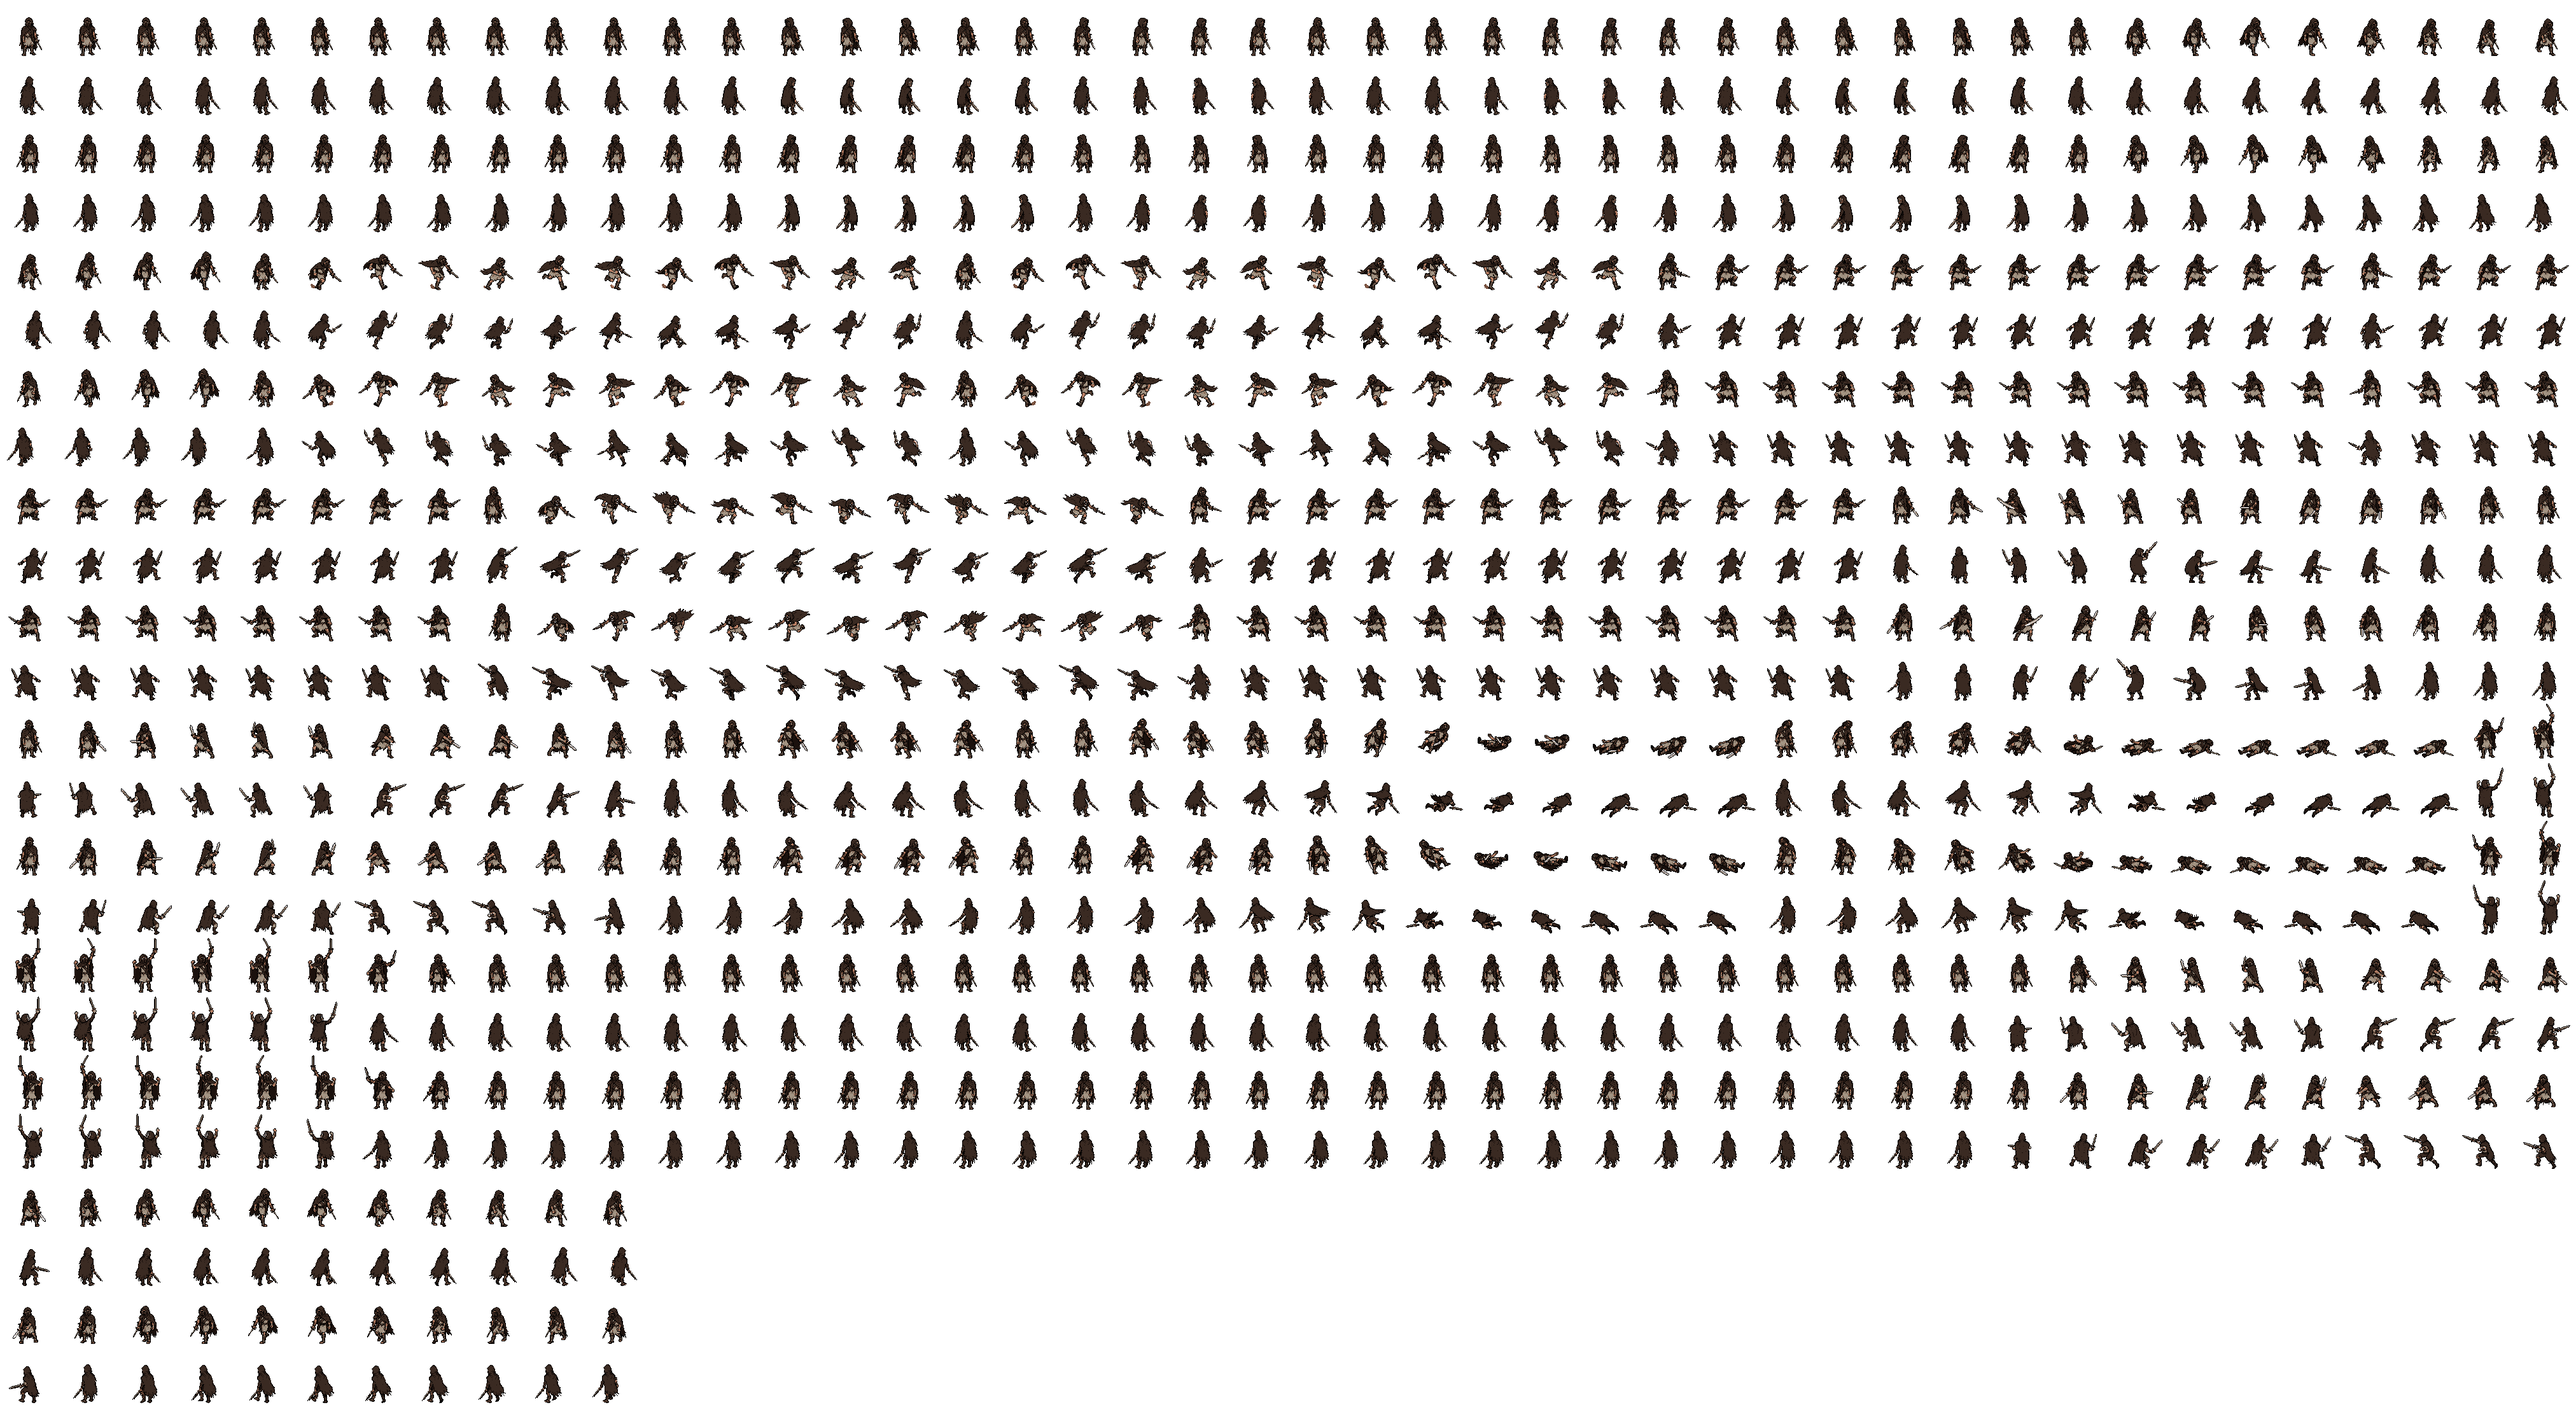
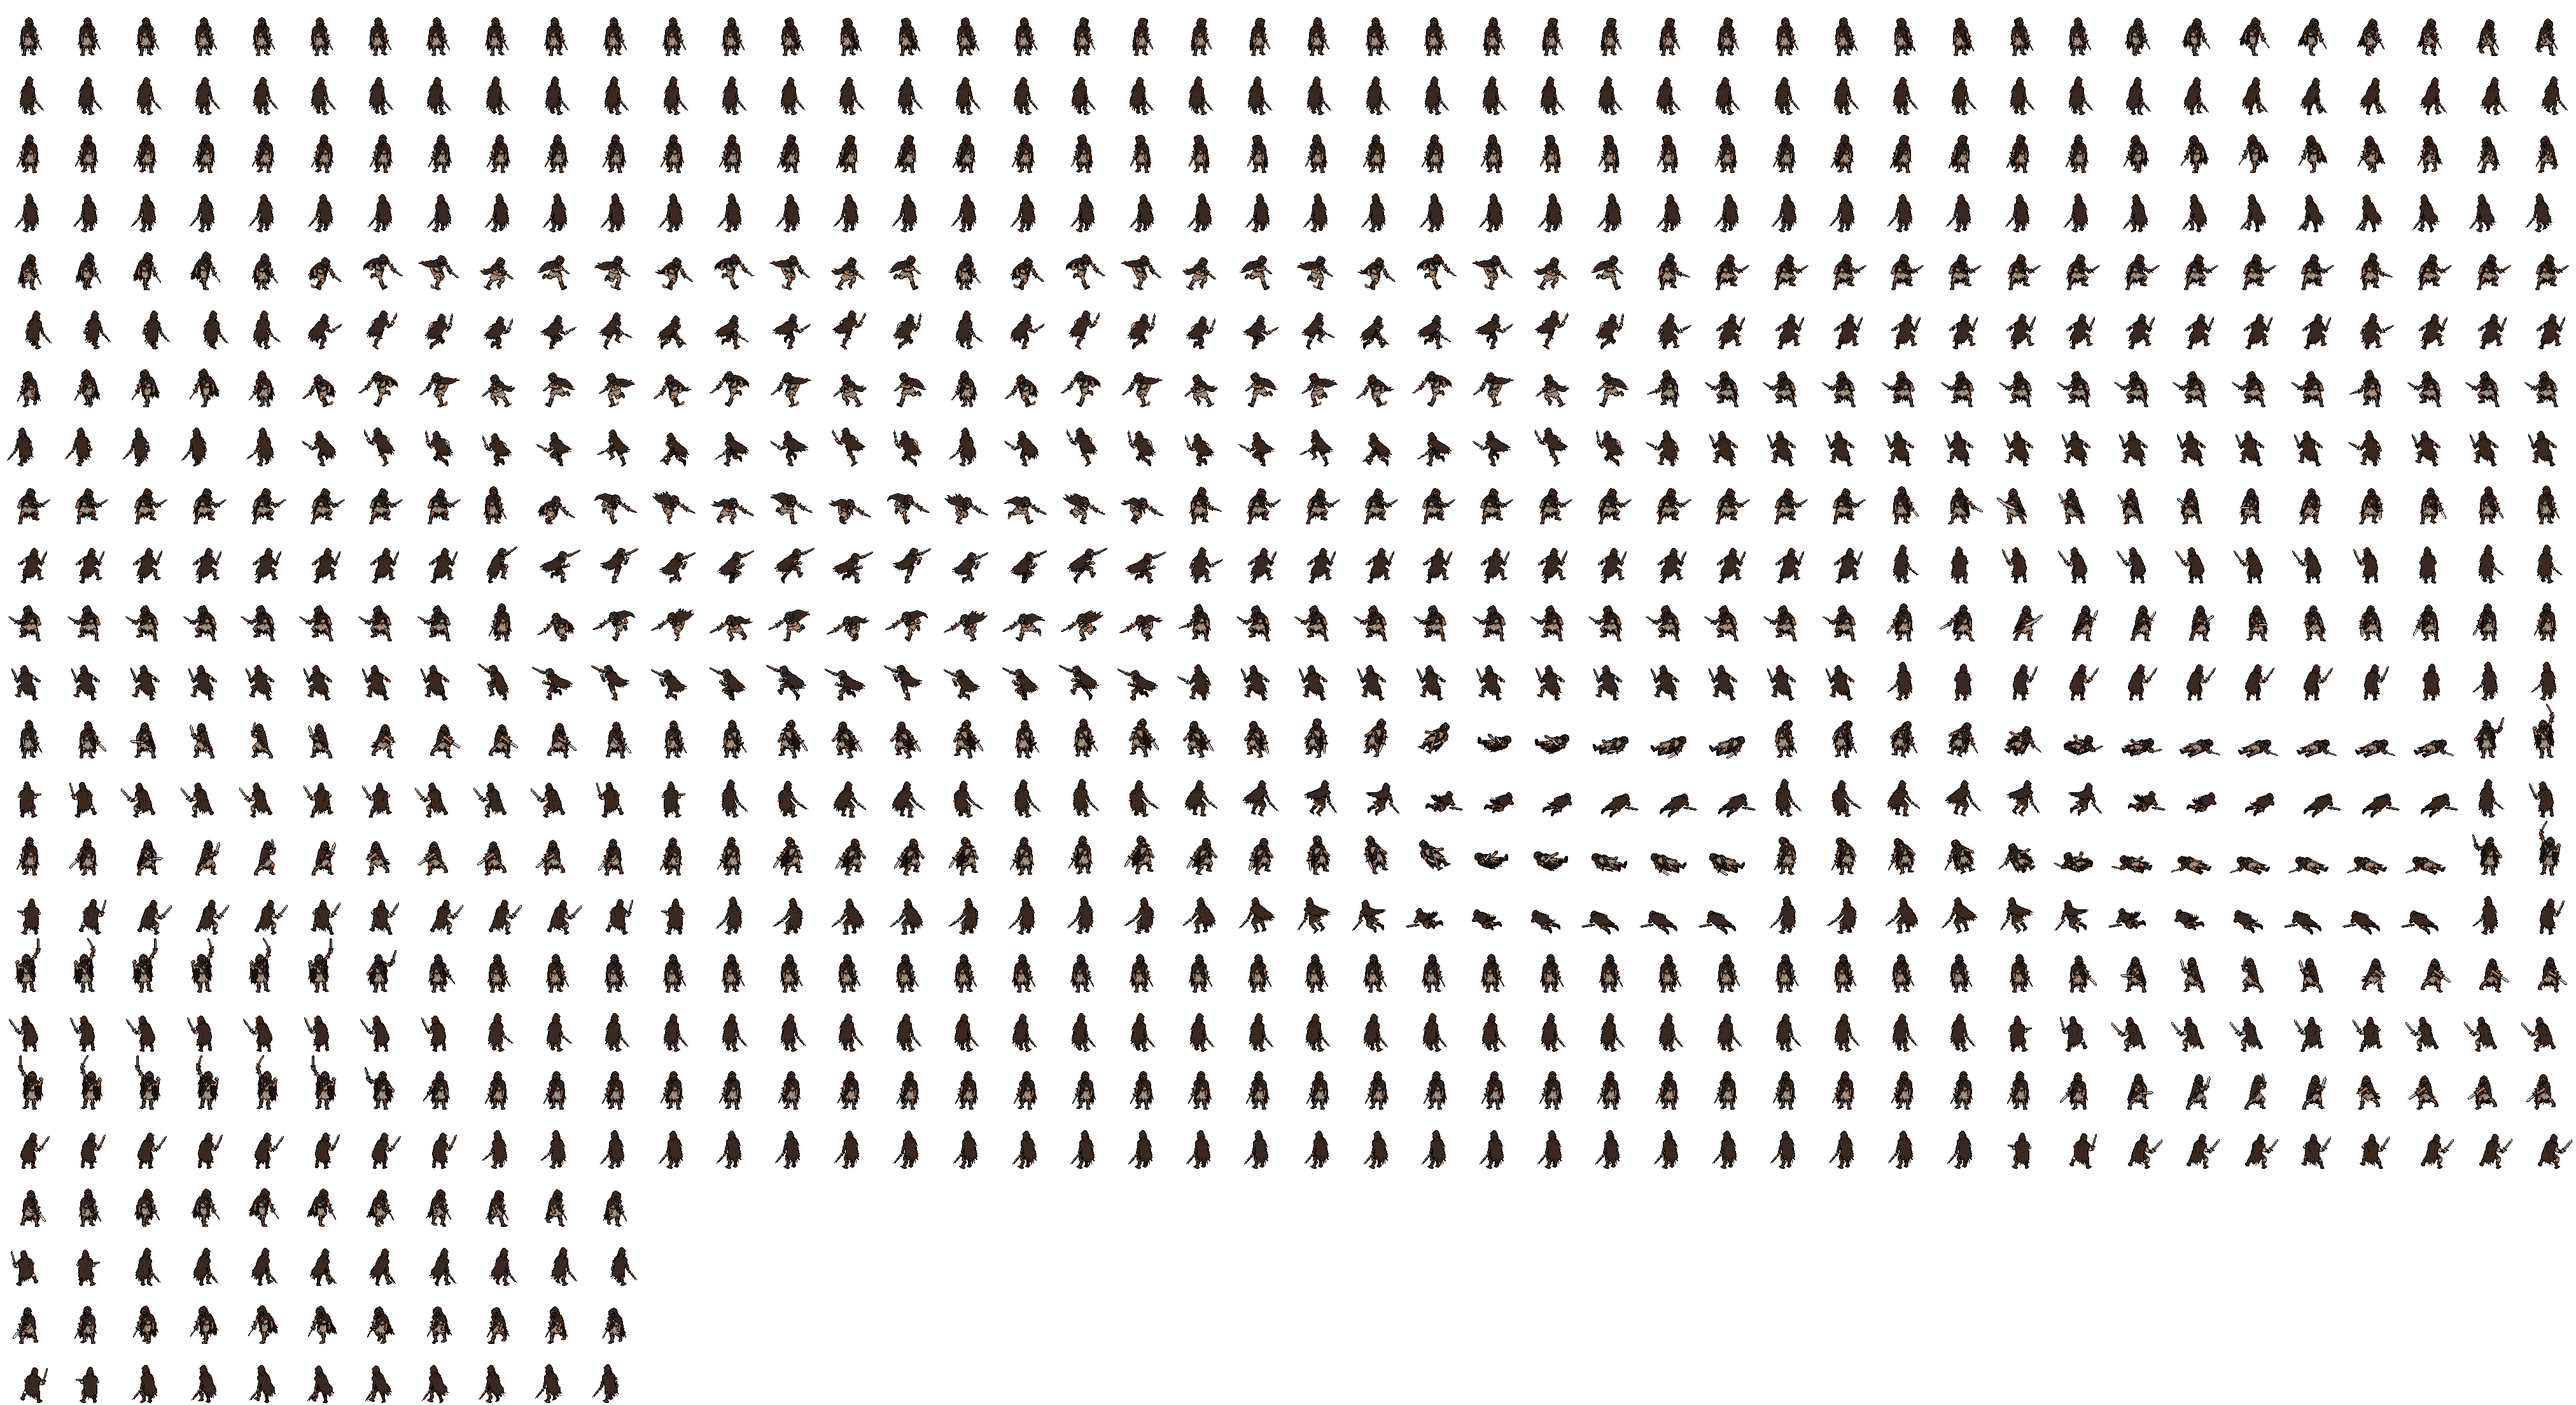
fix(art): bandit back-view clips keep facing away
Look, adjust, block, thrust, build and cheer turned to the viewer mid-clip in the
north-east / north-west rows. The back rows now reuse the bandit's own back frames
(bandit/backs.mjs, 0 generations); the stale bandit note in mobs.json names the real outfit.

diff --git a/docs/playbook/PROMPTS_ART.md b/docs/playbook/PROMPTS_ART.md
@@ -1979,7 +1979,11 @@ turns round:` and say "away from the viewer towards the upper right / left".
   from ready; stagger from fallBack; build from thrust; carry from walk), so the sheet keeps every clip name. Build:
   `fetchjobs.mjs docs/v5/pixellab/BANDIT/bandit.jobs.json docs/v5/pixellab/BANDIT/raw/bandit` (copy fallFwd NW to
   fallBack NW), `mobs/build.mjs docs/v5/pixellab/BANDIT/bandit.sheet.json`, `anim2/ground.mjs mob_bandit` on every
-  standing clip. 27 generations. Back-view charge, block and cheer still turn towards the viewer (kept).
+  standing clip. 27 generations. Back views that turned to the viewer mid-clip (0 generations, `bandit/backs.mjs`, then
+  `anim2/ground.mjs`): mirroring cannot help (the north-east is already the north-west mirrored), so the back rows reuse
+  the bandit's own back frames: look / adjust = idle (forward / reversed); block holds its parry (frames 0-3, held,
+  back down); thrust and build = the thrust wind-up up and back (the turned lunge dropped, the peak on the strike frame);
+  cheer = the block parry shaken over the shoulder. Charge stays a side-on run.
 
 **Lessons:** (1) pixminimax paints blood on a struck animal even with "no blood" (wolf SE death a1: a red splat on the
 flank; replaced by a2 with "takes a mortal blow … stays clean"); the clean wording still left red on the neck, so the
